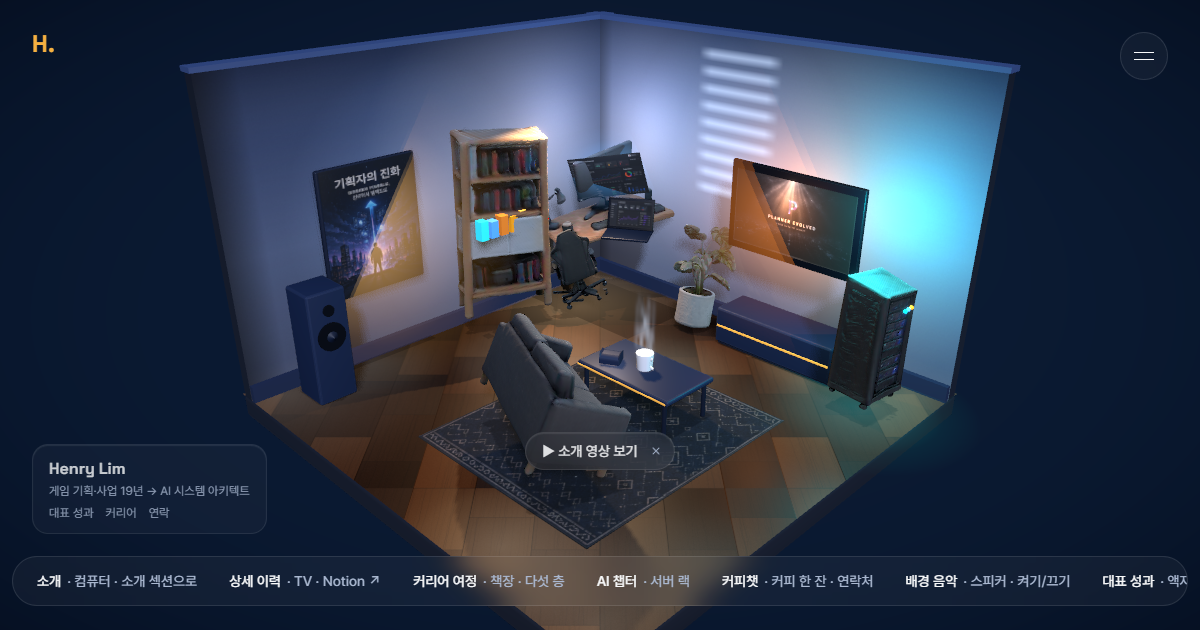
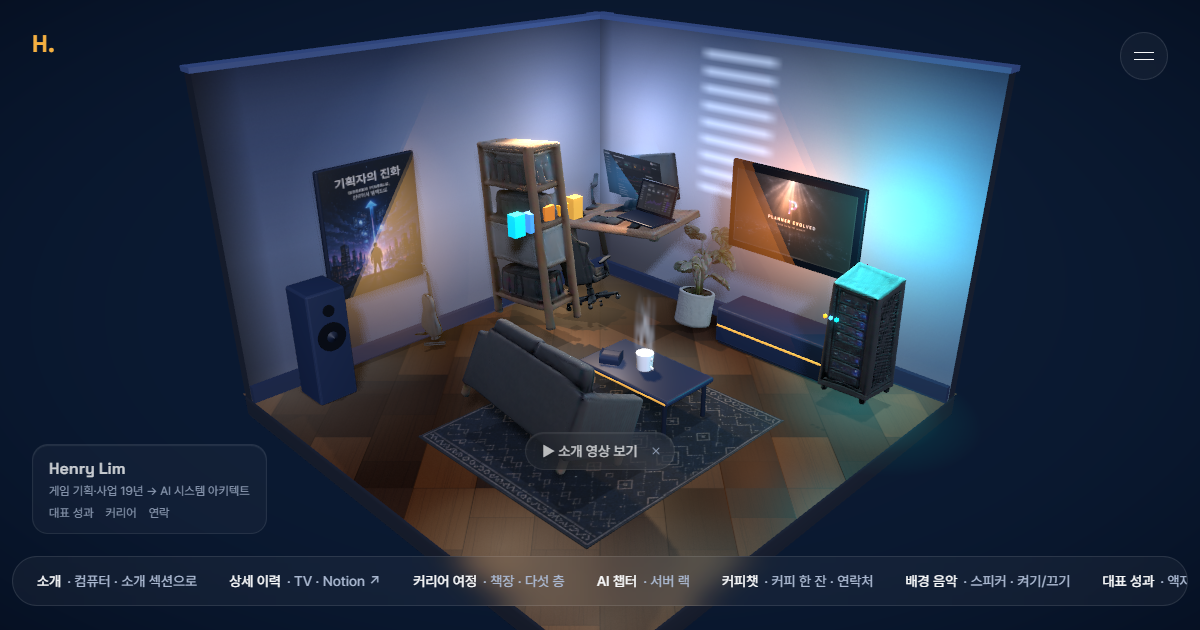
v15.2: axis-align the GLB furniture layout (owner round 3)
Yaw was never calibrated -- each TripoSR mesh carries an internal yaw
(sofa +18deg, bookshelf +23deg content skew, chair ~+45deg), so plumb
models still sat diagonal. Measured top-down/OBB yaw per model and
snapped everything parallel to the room axes:

- bookshelf: preRotY 0.405 squares the mesh skew; flush against the
  left wall; hit proxy shrunk to the visible unit (the mesh-box proxy
  shadowed the desk raycast -- desk hover/click read as bookshelf)
- desk: diagonal yaw removed, flush along the back wall; monitor.png
  re-anchored coplanar; chair re-yawed to face the desk, no clipping
- sofa: rotY 0.32 (18deg->1deg), back edge parallel to the rug edge
- server re-faced into the room; guitar relocated to the clear
  left-wall stretch; desk/bookshelf/server ANCHORS follow the moves
- og.png reshot

Gate: tsc/lint/build 0, console 0, tooltips 7/7 (desk=softo intro),
desk click -> /story#about, luma 73.91 in [46,92].

diff --git a/src/room/objects/Desk.tsx b/src/room/objects/Desk.tsx
@@ -74,30 +74,33 @@ export default function Desk() {
   const glowTex = getGlowTexture()
 
   return (
-    <Hotspot id="desk" hit={{ size: [2.1, 1.5, 1.0], position: [-1.7, 0.95, -1.6] }}>
-      {/* Desk in the back-LEFT corner (§19.2). GLB rotated so its monitor faces
-          +Z (into the room). */}
-      <group position={[-1.7, 0, -2.0]}>
-        {/* §23.4 + §23.6-calib: owner-image GLB desk (width 2.0), monitor+lamp
-            baked in. preRotX=0.16 / preRotZ=−0.06 level the ~16° baked pitch +
-            slight roll so the desktop surface is horizontal (the monitor.png
-            plane + laptop below sit flat ON it). rotY=π+0.55 keeps the corner-desk
-            yaw so the screen faces the resting camera. Suspends locally (§21.1). */}
+    <Hotspot id="desk" hit={{ size: [2.2, 1.5, 1.2], position: [-1.5, 0.95, -1.75] }}>
+      {/* Desk FLUSH along the BACK wall (§23.7-yaw). Flushed by the DESKTOP BODY
+          back edge (z−0.42 of the footprint centre), so center_z = −2.4 + 0.42 +
+          0.02 = −1.96 rests the desktop back at the back-wall plane (+0.02 gap) and
+          the desktop extends FORWARD into the room (front edge ≈z−1.54), leaving
+          room for the chair at z≈−1.2. The baked monitor reclines back BEHIND the
+          wall plane (hidden by the opaque wall box). x−1.5 clears the left wall /
+          bookshelf and the window (x−0.25). */}
+      <group position={[-1.5, 0, -1.96]}>
+        {/* §23.7-yaw (2026-07-11): the desk was the only diagonal object (old
+            rotY=π+0.55). The TripoSR desk's internal yaw is ~−40° off axis; rotY=
+            2.443 snaps the desktop long-edge parallel to the back wall and the
+            monitor to face EXACTLY +Z (measured: snapToAxis −42°→−2°, obbLongEdge
+            −37°→+3°). preRotX=0.16 / preRotZ=−0.06 keep the plumb levelling so the
+            desktop is horizontal (the monitor.png plane + laptop sit flat ON it).
+            Suspends locally (§21.1). */}
         <Suspense fallback={null}>
-          <GlbModel slug="desk" width={2.0} rotY={Math.PI + 0.55} preRotX={0.16} preRotZ={-0.06} />
+          <GlbModel slug="desk" width={2.0} rotY={2.443} preRotX={0.16} preRotZ={-0.06} />
         </Suspense>
 
-        {/* Monitor overlay — position/tilt found visually against the yawed GLB.
-            §23.6-calib: the desk GLB is yawed rotY=π+0.55 to face the resting
-            camera, so the overlay keeps the SAME 0.55 about Y to stay coplanar in
-            azimuth. The baked screen reclines ~25° from vertical (measured in the
-            side silhouette after preRotX=0.16), so the overlay back-tilt is raised
-            0.12→0.34 to lie FLAT on the glass (was standing proud → the bottom
-            floated with an air gap). Position moved to the baked screen CENTRE in
-            desk-local space (−0.13, 1.52, 0.02) — triangulated with debug markers
-            against the yawed GLB (the old x=0 landed to the RIGHT of the screen).
-            Carries the cyan glow halo + dashboard plane. */}
-        <group position={[-0.13, 1.52, 0.02]} rotation={[0.34, 0.55, 0]}>
+        {/* Monitor overlay — re-anchored for §23.7-yaw (rotY=2.443, monitor faces
+            +Z). Screen-finder measured the GLB glass centre at desk-local ≈(0.05,
+            1.56, −0.20) reclined ~12° back, so the overlay sits just in FRONT of
+            the glass (z−0.08) with a +X-axis back-tilt (0.2) to lie FLAT on it. No
+            Y-rotation — the monitor is axis-aligned to +Z. Carries the cyan glow
+            halo + dashboard plane. */}
+        <group position={[0.05, 1.56, -0.08]} rotation={[0.2, 0, 0]}>
           {/* soft cyan glow halo behind the screen (kept from the procedural
               build; noPick decorative billboard, §19.7). */}
           <sprite position={[0, 0, -0.14]} scale={[1.5, 1.05, 1]} userData={{ noPick: true }}>
@@ -121,11 +124,12 @@ export default function Desk() {
         </group>
 
         {/* KEPT procedural laptop (§23.4) on the GLB desktop surface, beside the
-            monitor. Lid stands OPEN (recline ≈0.32 rad) and the unit yaws +0.55 to
-            face the resting camera like the desk. §23.6-calib: after preRotX=0.16
-            the desk surface top sits ≈y1.0 (marker-verified) — base raised 0.95→1.0
-            so the laptop rests ON the surface, no sink. */}
-        <group position={[0.5, 1.0, 0.34]} rotation={[0, 0.55, 0]}>
+            monitor. Lid stands OPEN (recline ≈0.32 rad) and the unit faces +Z like
+            the desk (§23.7-yaw — no more 0.55 azimuth). The desktop surface top
+            sits ≈y1.28 after the new normalisation (screen-finder measured), so the
+            base rests at 1.28 (no sink). Sits to the +X side of the monitor, near
+            the desk front edge. */}
+        <group position={[0.6, 1.28, 0.32]} rotation={[0, 0, 0]}>
           {/* base / keyboard deck */}
           <RoundedBox args={[0.56, 0.03, 0.4]} radius={0.015} smoothness={2} castShadow>
             <meshStandardMaterial color={PAL.base} roughness={0.4} metalness={0.35} />

diff --git a/src/room/objects/Bookshelf.tsx b/src/room/objects/Bookshelf.tsx
@@ -21,30 +21,40 @@ useGLTF.preload(modelUrl('bookshelf'))
 
 export default function Bookshelf() {
   return (
-    <Hotspot id="bookshelf" hit={{ size: [0.5, 2.6, 1.78], position: [-2.06, 1.3, -0.45] }}>
-      {/* Mid LEFT wall (§19.2), the unit runs along Z beside the wall. */}
-      <group position={[-2.06, 0, -0.45]}>
-        {/* §23.4: owner-image GLB bookshelf (height 2.5). rotY=−π/2 turns the
-            +Z-facing open front to +X (into the room). Suspends locally (§21.1). */}
+    <Hotspot id="bookshelf" hit={{ size: [0.8, 2.5, 1.4], position: [-2.0, 1.25, -0.4] }}>
+      {/* Mid LEFT wall (§19.2), FLUSH: the aligned box depth (X) is 1.547, so the
+          footprint-centre origin sits at x = −2.4 + 1.547/2 + 0.02 = −1.61 → the
+          back face rests at the left-wall plane (x−2.4) + a 0.02 gap. Runs along
+          Z beside the wall (§23.7-yaw).
+          Hit proxy hugs the VISIBLE unit only (0.8×2.5×1.4 at x−2.0) — the mesh
+          Box3 (1.5 deep) includes stray fragments, and a proxy that big shadowed
+          the desk's raycast (desk hover read 책장, desk click went /career). */}
+      <group position={[-1.61, 0, -0.45]}>
+        {/* §23.7-yaw (2026-07-11): the TripoSR bookshelf has a ~23° YAW baked into
+            its mesh content (the open shelves are skewed off the structural box).
+            preRotY=+0.405 squares that skew to world axes BEFORE normalisation
+            (measured: obbLongEdge 23°→0.16°), so the unit reads flat against the
+            wall, not angled. With the content squared, rotY=0 already faces the
+            wide open shelf front EXACTLY +X (into the room, off the left wall) —
+            confirmed by the +X-side calibration render. preRotX=0.26 keeps the
+            plumb correction. Suspends locally (§21.1). */}
         <Suspense fallback={null}>
-          <GlbModel slug="bookshelf" height={2.5} rotY={-Math.PI / 2} preRotX={0.26} />
+          <GlbModel slug="bookshelf" height={2.5} rotY={0} preRotX={0.26} preRotY={0.405} />
         </Suspense>
 
         {/* 5 KEPT chapter books, spines in phase colours (semantic career phases;
-            §23.4 / §23.6-calib). v16: the books previously stood in the TOP cavity
-            where they overlapped the GLB's own baked books + the top rail and read
-            as oversized floating blocks. They now sit INSIDE the clearly-EMPTY
-            second-from-top shelf cavity (floor ≈y1.16 in this group's frame after
-            the height-2.5 scale + preRotX levelling), SHORTER than the cavity so
-            they seat with headroom. Spines face +X (into the room) at the shelf's
-            front edge; spread along Z. x/y/z/scale found visually against the GLB
-            crop. */}
+            §23.7-yaw). After the preRotY squaring the shelf boards sit at measured
+            world Y ≈ {0.82, 1.39, 1.69, 2.22} and the open front face is at local
+            x ≈ +0.618. The books seat on the y1.39 board (clearly empty above it to
+            the y1.69 board), spines at the front lip (local x0.42, just inside the
+            0.618 front so they read as ON the shelf, not proud) and spread along
+            the shelf width Z. Shorter than the ~0.30 cavity so they have headroom. */}
         {PHASE_COLORS.map((c, i) => {
-          const z = -0.12 + i * 0.14
-          const h = 0.22 - (i % 2) * 0.03
+          const z = -0.42 + i * 0.21
+          const h = 0.24 - (i % 2) * 0.03
           return (
-            <mesh key={i} position={[0.22, 1.2 + h / 2, z]} castShadow>
-              <boxGeometry args={[0.11, h, 0.1]} />
+            <mesh key={i} position={[0.34, 1.39 + h / 2, z]} castShadow>
+              <boxGeometry args={[0.12, h, 0.14]} />
               <meshStandardMaterial
                 color={c}
                 emissive={c}

diff --git a/src/room/objects/RoomShell.tsx b/src/room/objects/RoomShell.tsx
@@ -359,10 +359,14 @@ function Plant() {
  *  Suspends locally (§23.1). */
 function Guitar() {
   return (
-    <group position={[-1.9, 0, -1.32]} rotation={[0, 0, 0.12]}>
-      {/* §23.6-calib: preRotX=0.05 / preRotZ=−0.02 true the guitar's small ~8°
-          baked lean so it hangs plumb BEFORE the group's deliberate 0.12-rad
-          lean toward the left wall (a posed lean, not a defect). */}
+    <group position={[-2.16, 0, 0.6]} rotation={[0, 0, 0.12]}>
+      {/* §23.7-yaw: the flush bookshelf now occupies the mid-left wall (footprint to
+          x−0.83, z∈[−1.5,0.6]), so the guitar is moved to the CLEAR left-wall
+          stretch just FORWARD of the bookshelf (z0.6, in the gap before the frame at
+          z1.05), near the wall (x−2.16). Keeps its intentional ≈0.12-rad Z-lean
+          toward the left wall (a posed lean, not a defect). preRotX=0.05 / preRotZ=−0.02 true
+          the small ~8° baked lean so it hangs plumb BEFORE that deliberate lean.
+          rotY=−0.6 angles the body toward the viewer. */}
       <Suspense fallback={null}>
         <GlbModel slug="guitar" height={1.0} rotY={-0.6} preRotX={0.05} preRotZ={-0.02} />
       </Suspense>
@@ -376,13 +380,16 @@ function Guitar() {
  *  the reference). Found visually. Suspends locally (§23.1). */
 function Chair() {
   return (
-    <group position={[-1.62, 0, -1.25]}>
-      {/* §23.6-calib: preRotX=0.05 / preRotZ=0.22 stand the chair plumb (measured
-          ~13° roll + 6° pitch; wheelbase levelled + back post vertical in the
-          silhouette). rotY=π/2 turns the seat/armrests to FACE the desk (behind
-          it at −Z), so the chair back reads toward the viewer. Found visually. */}
+    <group position={[-1.45, 0, -1.2]}>
+      {/* §23.7-yaw (2026-07-11): the old rotY=π/2 jammed the chair SIDEWAYS into the
+          desk. The chair's internal yaw is ~+45° off axis; rotY=0.78 turns the
+          seat to face the desk (world −Z) with the back toward the viewer, axis-
+          aligned (calibration render confirmed the seat opening faces −Z). A tiny
+          +0.12 life offset keeps it from looking robotically square. It sits at
+          z−1.2, IN FRONT of the desktop front edge (≈z−1.54) so it never clips the
+          desk. preRotX=0.05 / preRotZ=0.22 keep the plumb levelling. */}
       <Suspense fallback={null}>
-        <GlbModel slug="chair" height={1.25} rotY={Math.PI / 2} preRotX={0.05} preRotZ={0.22} />
+        <GlbModel slug="chair" height={1.25} rotY={0.78 + 0.12} preRotX={0.05} preRotZ={0.22} />
       </Suspense>
     </group>
   )
@@ -394,11 +401,14 @@ function Chair() {
 function Sofa() {
   return (
     <group position={[0.5, 0, 1.15]}>
-      {/* §23.6-calib: preRotZ=−0.19 levels the sofa's ~11° baked roll (all four
-          feet now sit on a level line; it read as floating/tilted before). The
-          GLB's seat opening faces −Z raw, so rotY=0 already faces the TV (−Z). */}
+      {/* §23.7-yaw (2026-07-11): the sofa read ~30–40° diagonal to the rug because
+          its GLB internal yaw is ~+18° off axis. rotY=0.32 snaps it axis-aligned
+          (measured snapToAxis 18°→1°, obbLongEdge 24°→6°), so its back edge is now
+          PARALLEL to the rug edge and the seat faces EXACTLY −Z (toward the TV) —
+          calibration render confirmed the back slab toward the viewer, seat toward
+          −Z. preRotZ=−0.19 keeps the ~11° roll levelling (feet on a level line). */}
       <Suspense fallback={null}>
-        <GlbModel slug="sofa" width={1.9} rotY={0} preRotZ={-0.19} />
+        <GlbModel slug="sofa" width={1.9} rotY={0.32} preRotZ={-0.19} />
       </Suspense>
     </group>
   )

diff --git a/src/room/objects/Server.tsx b/src/room/objects/Server.tsx
@@ -36,23 +36,25 @@ export default function Server() {
   })
 
   return (
-    <Hotspot id="server" hit={{ size: [0.78, 1.58, 0.72], position: [2.05, 0.75, -1.65] }}>
-      <group position={[2.05, 0, -1.65]}>
-        {/* §23.3 + §23.6-calib: owner-image GLB server rack, height 1.6.
-            preRotX=0.30 levels the ~18° baked forward pitch (measured PCA −17.9°,
-            confirmed plumb in the side silhouette). The GLB's richer mesh/vent
-            face sits on its −Z side; rotY=−π/2+0.35 turns that face into the room
-            toward the +X/+Z viewer corner (§23.6). Suspends locally (§23.1). */}
+    <Hotspot id="server" hit={{ size: [1.34, 1.58, 0.82], position: [1.95, 0.75, -1.65] }}>
+      <group position={[1.95, 0, -1.65]}>
+        {/* §23.7-yaw (2026-07-11): owner-image GLB server rack, height 1.6.
+            preRotX=0.30 keeps the ~18° baked-pitch plumb correction. The GLB's rich
+            LED rack-unit face is on the +X side of the levelled pose; rotY=−2.618
+            snaps the rack axis-aligned AND turns that LED face to EXACTLY +Z (into
+            the room, toward the camera) — the calibration render confirmed the
+            blue-lit rack units face +Z. x1.95 keeps the aligned footprint (half-X
+            0.65) fully on the floor slab. Suspends locally (§23.1). */}
         <Suspense fallback={null}>
-          <GlbModel slug="server" height={1.6} rotY={-Math.PI / 2 + 0.35} preRotX={0.3} />
+          <GlbModel slug="server" height={1.6} rotY={-2.618} preRotX={0.3} />
         </Suspense>
-        {/* 3 ADDED emissive LED dots on the front (room-facing) face (§23.3 — the
-            dark room needs the LED read). Positioned visually just proud of the
-            face now that the rack faces the +X/+Z corner. Blink independently. No
+        {/* 3 ADDED emissive LED dots on the +Z-facing rack face (§23.3 — the dark
+            room needs the LED read). The aligned face front is at z≈+0.76; the dots
+            sit just proud of it, spread along X. Blink independently. No
             userData.baseEmissive → the hover-boost path leaves them alone. */}
         <group ref={ledsRef}>
           {LED_COLORS.map((c, i) => (
-            <mesh key={i} position={[0.31, 1.18, -0.1 + i * 0.06]}>
+            <mesh key={i} position={[-0.06 + i * 0.06, 1.18, 0.63]}>
               <sphereGeometry args={[0.02, 10, 10]} />
               <meshStandardMaterial color={c} emissive={c} emissiveIntensity={0.9} toneMapped={false} />
             </mesh>

diff --git a/src/room/roomState.ts b/src/room/roomState.ts
@@ -38,10 +38,10 @@ export interface Anchor {
 //   left wall (−X):  bookshelf (mid, +guitar) · frame (front) · speaker (front)
 //   centre:          sofa facing −Z (the TV) · coffee table + mug + gamepad
 export const ANCHORS: Record<string, Anchor> = {
-  desk: { target: [-1.7, 1.32, -1.9], camera: [1.2, 2.7, 2.6] },
+  desk: { target: [-1.5, 1.32, -1.7], camera: [1.2, 2.7, 2.6] },
   tv: { target: [0.85, 1.6, -2.0], camera: [2.6, 2.7, 2.9] },
-  bookshelf: { target: [-1.95, 1.45, -0.45], camera: [1.5, 2.7, 2.9] },
-  server: { target: [2.05, 1.0, -1.65], camera: [4.0, 2.6, 1.9] },
+  bookshelf: { target: [-1.6, 1.45, -0.45], camera: [1.5, 2.7, 2.9] },
+  server: { target: [1.95, 1.0, -1.65], camera: [4.0, 2.6, 1.9] },
   coffee: { target: [0.5, 0.95, -0.15], camera: [2.7, 2.2, 2.6] },
   speaker: { target: [-1.95, 0.7, 1.85], camera: [1.5, 2.2, 3.8] },
   frame: { target: [-2.0, 1.5, 1.05], camera: [1.6, 2.4, 3.6] },